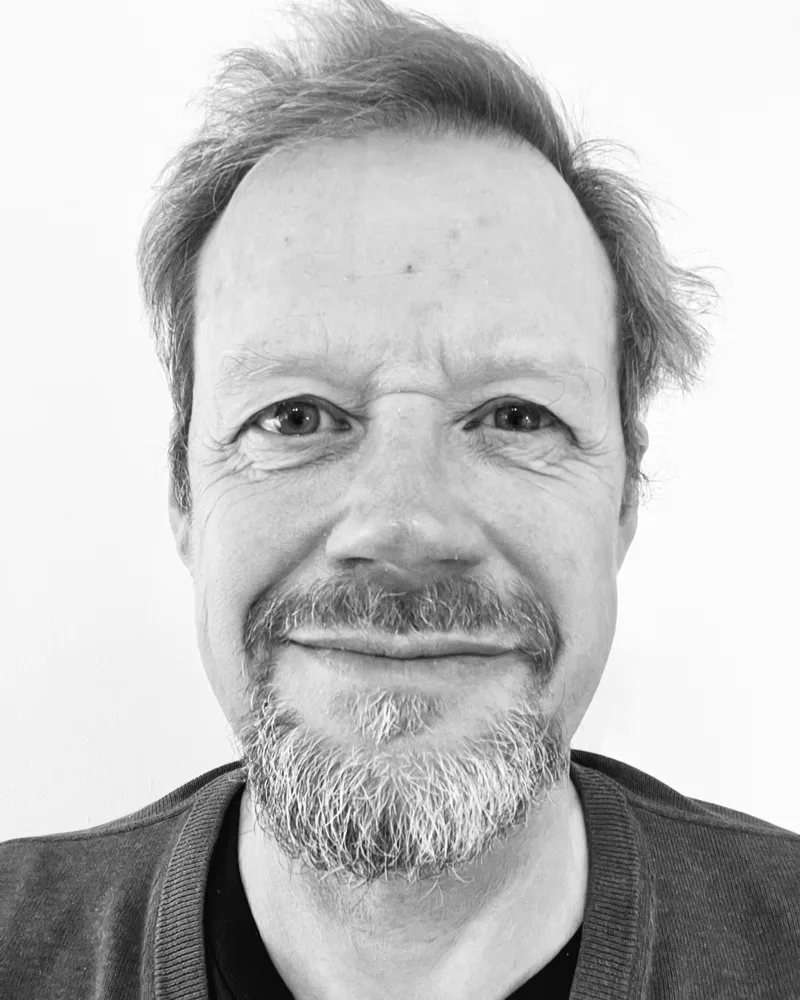
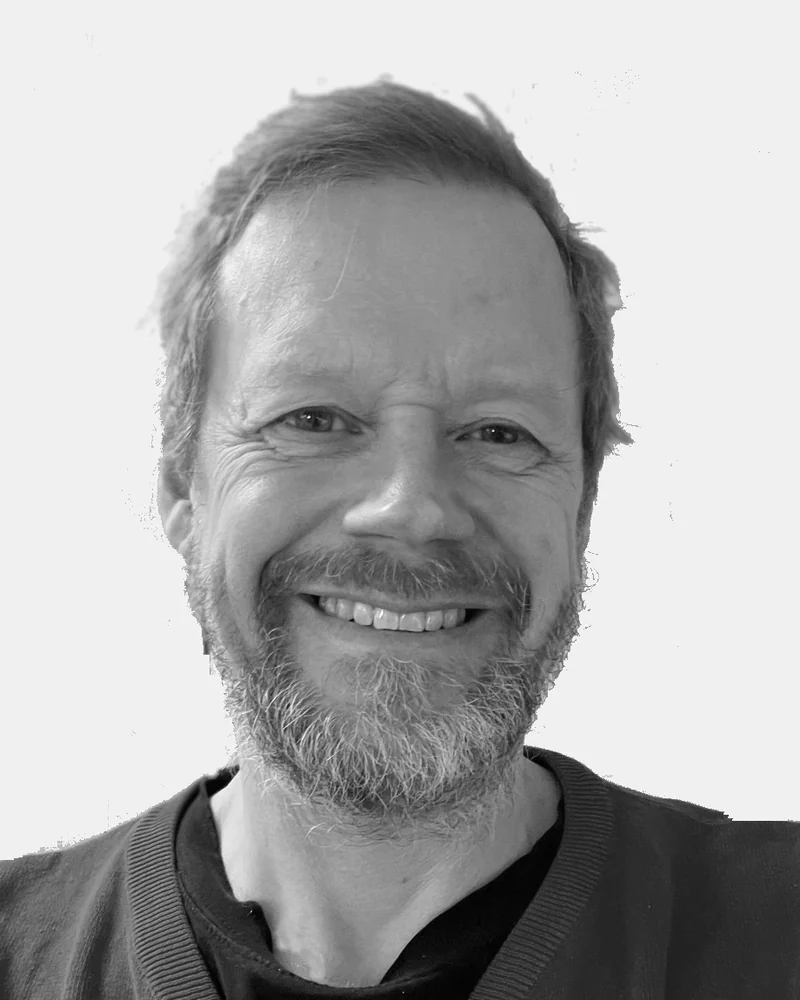
Update headshots and Suzanne credit

diff --git a/index.html b/index.html
@@ -164,7 +164,7 @@
                     </a>
                 </div>
                 <div class="person">
-                    <p class="label">Regiassistent</p>
+                    <p class="label">Medregissör</p>
                     <p class="value">Suzanne Kennedy</p>
                 </div>
                 <div class="person">
